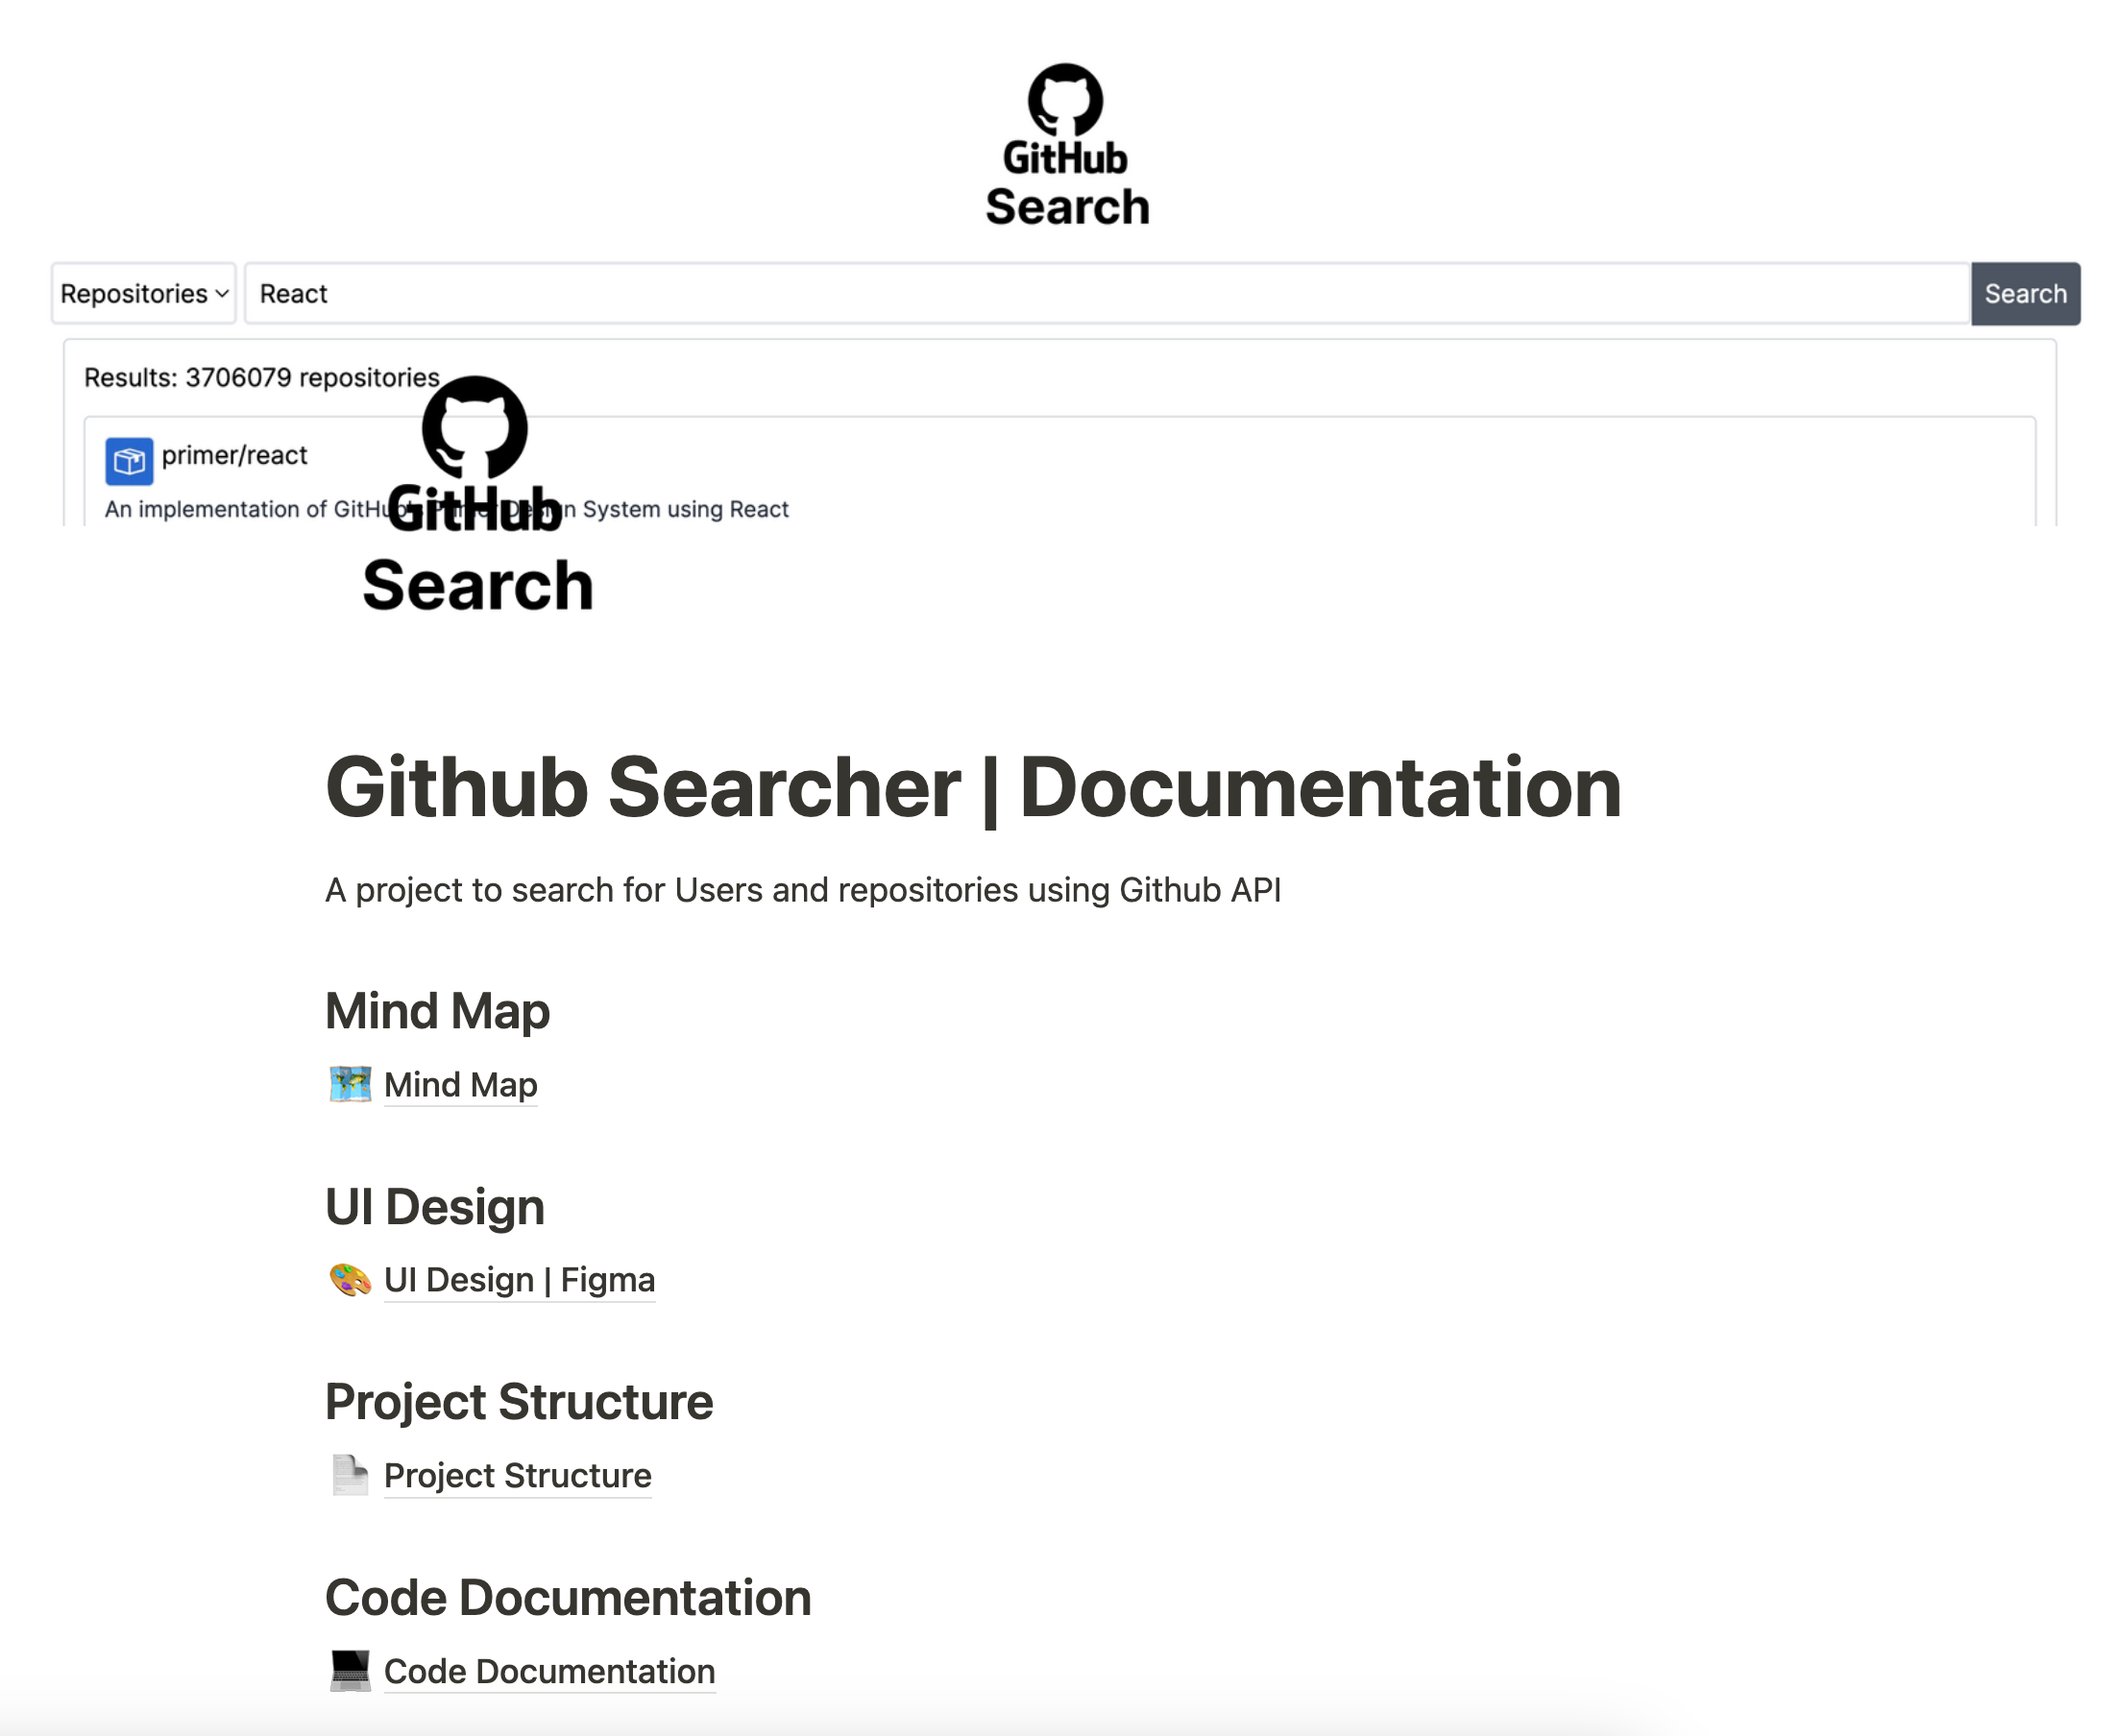
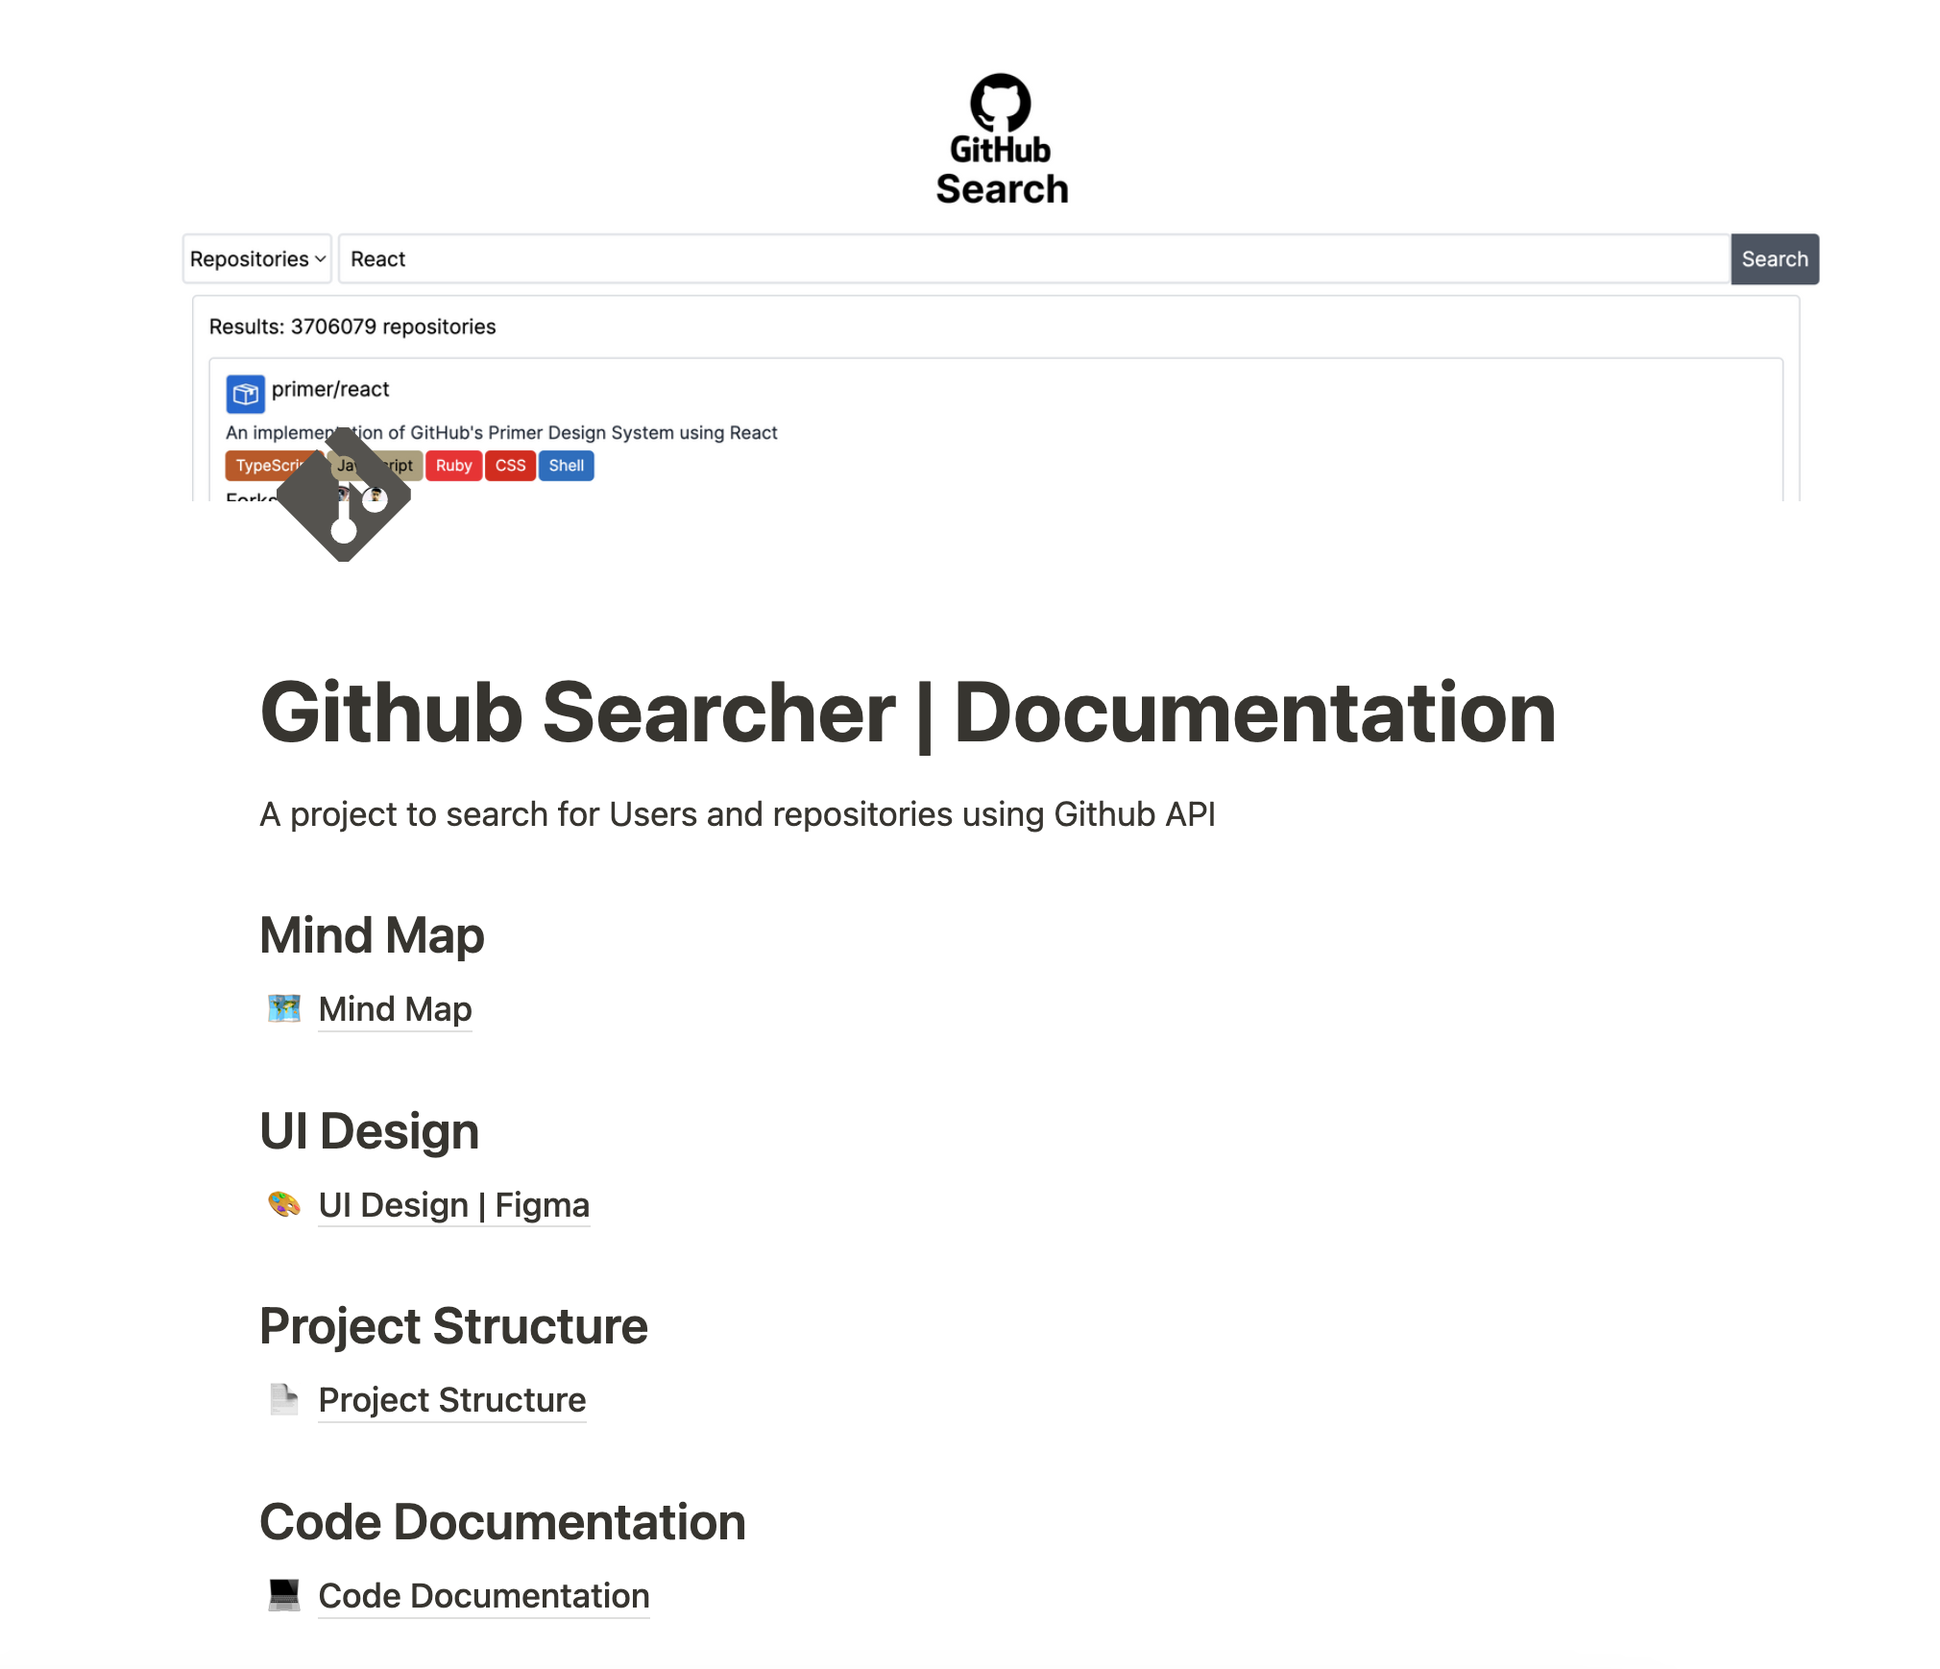
chore: added routes to README, replaced README images

diff --git a/README.md b/README.md
@@ -20,7 +20,8 @@ A GitHub Searcher app for searching repositories and users, built with:
   - [Mind Map 🗺](#mind-map-)
   - [Figma Design 🎨](#figma-design-)
   - [Documentation 📜](#documentation-)
-  - [Features 🚀](#features)
+  - [Features 🚀](#features-)
+  - [Routes 🛣](#routes--)
   - [Running The Project 👨🏻💻](#running-the-project)
   - [Running Tests 🪲](#running-tests)
   - [Docker Image 🐳](#docker-image)
@@ -60,6 +61,11 @@ A GitHub Searcher app for searching repositories and users, built with:
     - [x]  Any other additional information, you'd like to show.
 -  [x] Handle the empty/error/loading states.
 -  [x] Pagination: add the infinite scroll pagination.
+
+## Routes 🛣 
+- `'/'` - Home page [(Localhost Example)](http://localhost:3000/)
+- `'/search'` - Search page for searching repositories and users [(Localhost Example)](http://localhost:3000/search)
+- `'/user/:login'` - User page for showing the user details [(Localhost Example)](http://localhost:3000/user/LinuxDevil)
 
 ## Running The Project 👨🏻💻
 To run the Github Searcher project follow these steps:
